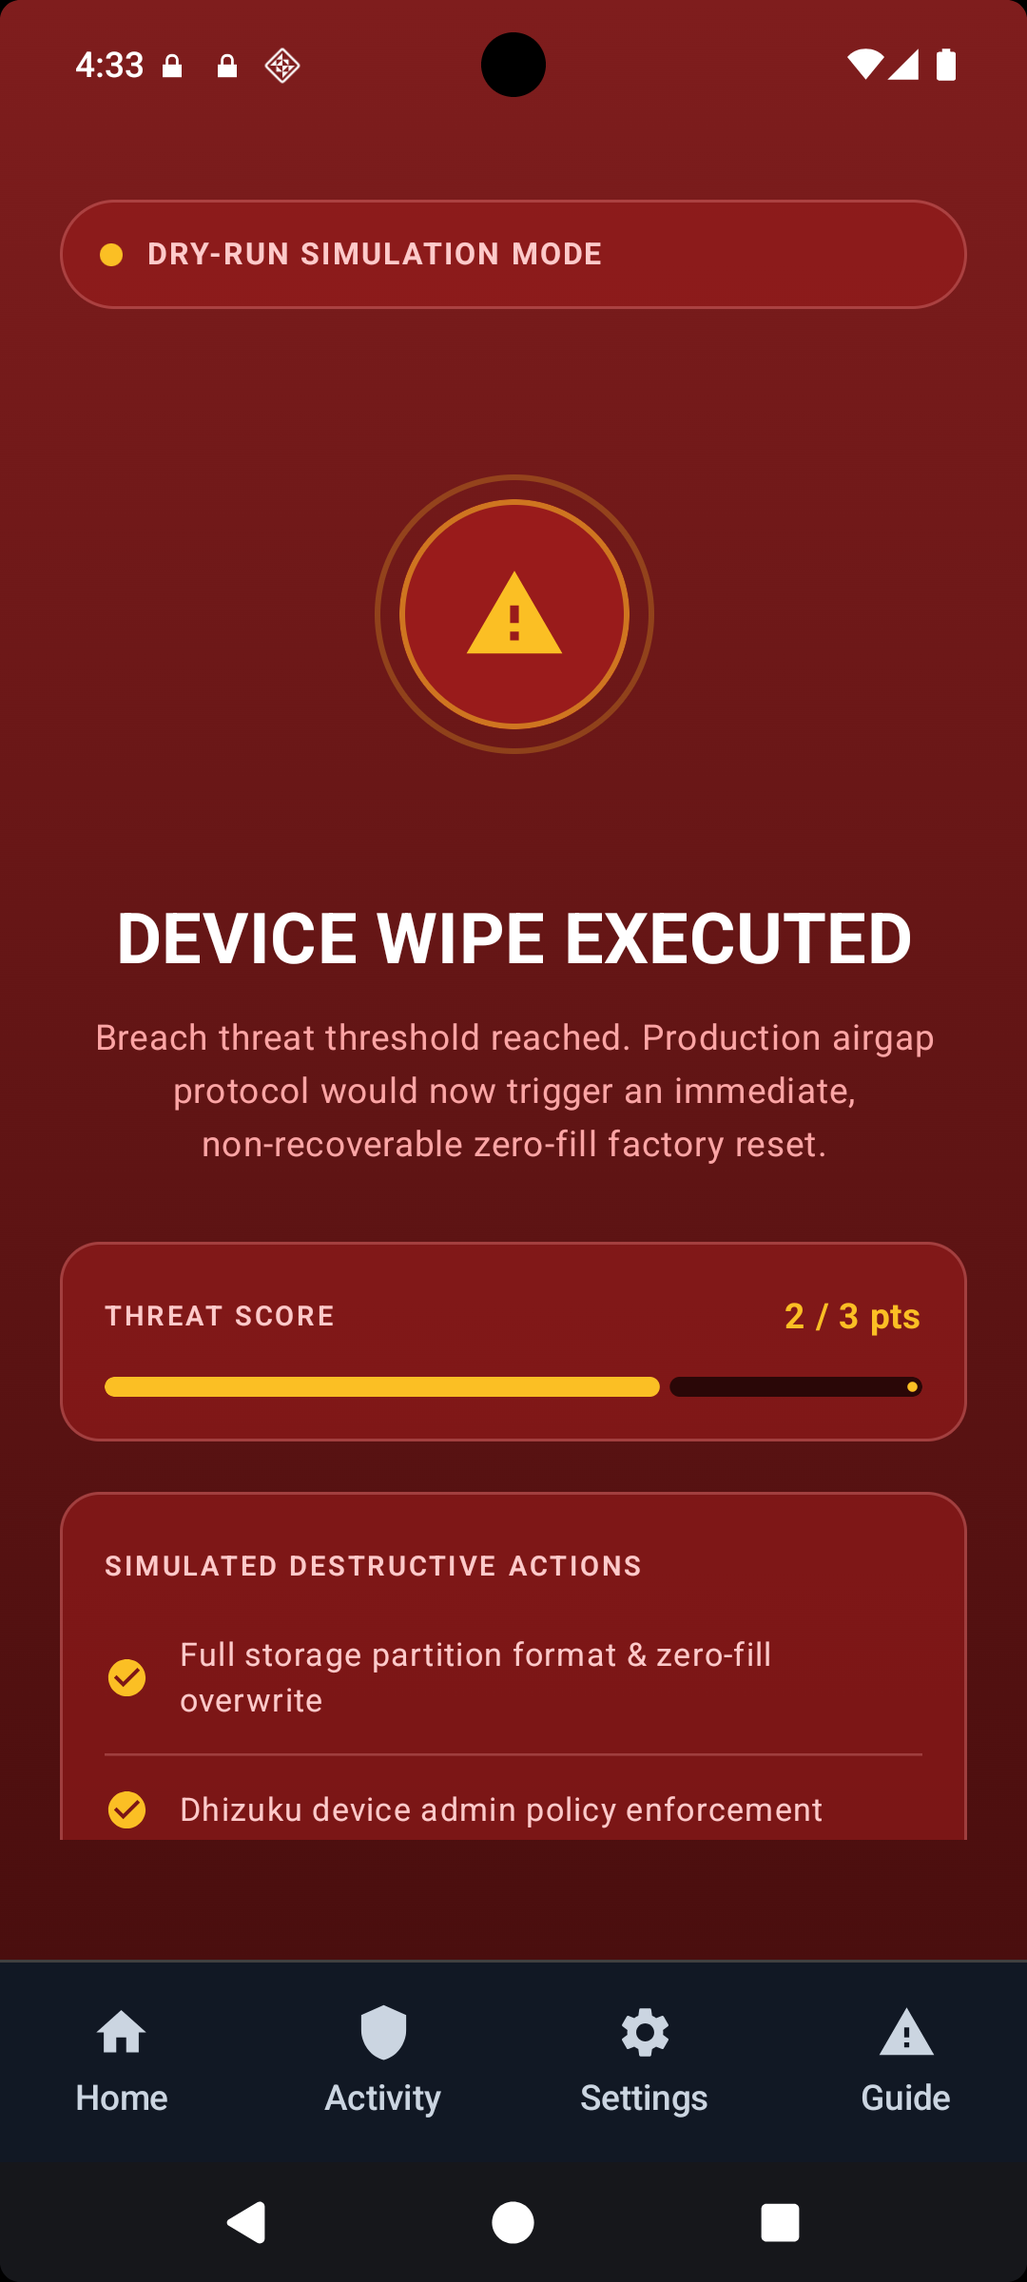
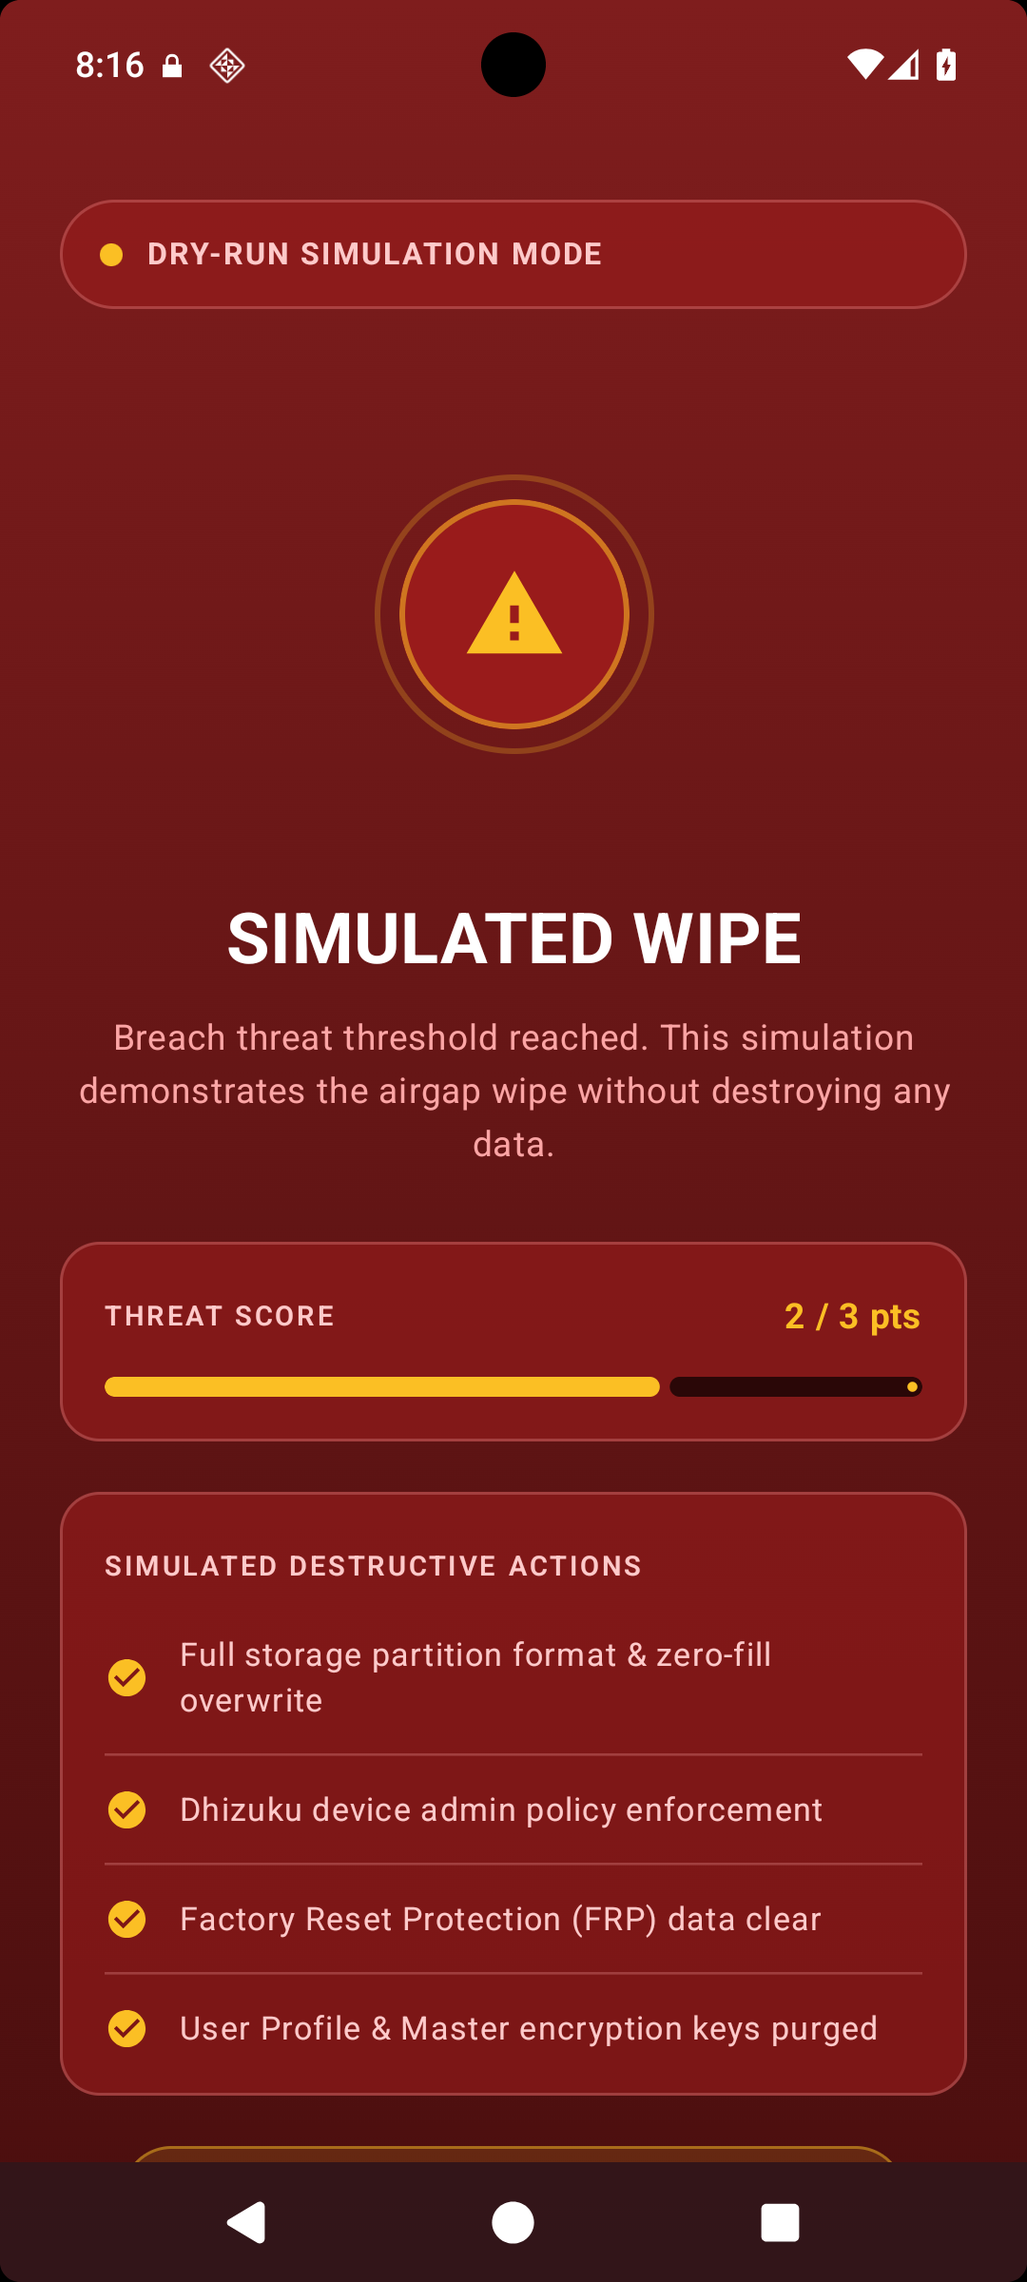
Make wipe screen reflect actual mode instead of always saying "simulated"
- Wipe screen now shows "SIMULATED WIPE" in dry-run mode and "FACTORY RESET PENDING" in live mode
- Badge text, description, and PIN dialog all update to match the active mode
- Bottom navigation bar is hidden during wipe so user can't navigate away
- Updated tests to cover both dry-run and live-mode screen text
- Regenerated wipe screenshots (light + dark) and mockups
- Updated user-guide to match new screen text

Changed region(s): [[0.0, 0.7812, 1.0, 1.0], [0.0917, 0.375, 0.9167, 0.5312], [0.2139, 0.0, 0.2444, 0.0312]]

diff --git a/app/src/test/java/com/airgate/ui/screens/WipeGateFlowTest.kt b/app/src/test/java/com/airgate/ui/screens/WipeGateFlowTest.kt
@@ -24,11 +24,13 @@ import androidx.compose.ui.test.assertIsDisplayed
 import androidx.compose.ui.test.junit4.createComposeRule
 import androidx.compose.ui.test.onAllNodesWithText
 import androidx.compose.ui.test.onNodeWithText
+import androidx.compose.ui.test.performScrollTo
 import androidx.lifecycle.compose.collectAsStateWithLifecycle
 import androidx.test.core.app.ApplicationProvider
 import androidx.test.ext.junit.runners.AndroidJUnit4
 import com.airgate.WipeGate
 import com.airgate.data.repository.SecurityStateRepository
+import com.airgate.domain.model.AppConfig
 import com.airgate.domain.model.SecurityState
 import com.airgate.testutil.crypto.AndroidKeyStoreRule
 import org.junit.Rule
@@ -70,22 +72,22 @@ class WipeGateFlowTest {
         }
 
         composeRule.onNodeWithText("NORMAL CONTENT").assertIsDisplayed()
-        composeRule.onNodeWithText("DEVICE WIPE EXECUTED").assertDoesNotExist()
+        composeRule.onNodeWithText("FACTORY RESET PENDING").assertDoesNotExist()
 
-        // A background component (the watchdog) flips the state while the UI is
-        // already in the foreground — no lifecycle event fires.
+        repository.saveConfig(AppConfig(dryRunMode = false))
         repository.setSecurityState(SecurityState.WIPING)
 
         composeRule.waitUntil(timeoutMillis = 15_000) {
-            composeRule.onAllNodesWithText("DEVICE WIPE EXECUTED").fetchSemanticsNodes().isNotEmpty()
+            composeRule.onAllNodesWithText("FACTORY RESET PENDING").fetchSemanticsNodes().isNotEmpty()
         }
-        composeRule.onNodeWithText("DEVICE WIPE EXECUTED").assertIsDisplayed()
+        composeRule.onNodeWithText("FACTORY RESET PENDING").assertIsDisplayed()
         composeRule.onNodeWithText("NORMAL CONTENT").assertDoesNotExist()
     }
 
     @Test
     fun normalContent_returnsWhenTheFlowLeavesWiping() {
         val repository = freshRepository()
+        repository.saveConfig(AppConfig(dryRunMode = false))
         repository.setSecurityState(SecurityState.WIPING)
 
         composeRule.setContent {
@@ -99,20 +101,40 @@ class WipeGateFlowTest {
             }
         }
 
-        composeRule.onNodeWithText("DEVICE WIPE EXECUTED").assertIsDisplayed()
+        composeRule.onNodeWithText("FACTORY RESET PENDING").assertIsDisplayed()
 
-        // The owner's PIN-gated reset returns the state to compliant.
         repository.setSecurityState(SecurityState.ARMED_COMPLIANT)
 
         composeRule.waitUntil(timeoutMillis = 15_000) {
             composeRule.onAllNodesWithText("NORMAL CONTENT").fetchSemanticsNodes().isNotEmpty()
         }
         composeRule.onNodeWithText("NORMAL CONTENT").assertIsDisplayed()
-        composeRule.onNodeWithText("DEVICE WIPE EXECUTED").assertDoesNotExist()
+        composeRule.onNodeWithText("FACTORY RESET PENDING").assertDoesNotExist()
     }
 
     @Test
     fun wipeScreen_isShownImmediatelyWhenTheFlowStartsInWiping() {
+        val repository = freshRepository()
+        repository.saveConfig(AppConfig(dryRunMode = false))
+        repository.setSecurityState(SecurityState.WIPING)
+
+        composeRule.setContent {
+            val securityState by repository.securityStateFlow.collectAsStateWithLifecycle()
+            WipeGate(
+                securityState = securityState,
+                repository = repository,
+                onResetStreakRequested = {}
+            ) {
+                Text("NORMAL CONTENT")
+            }
+        }
+
+        composeRule.onNodeWithText("FACTORY RESET PENDING").assertIsDisplayed()
+        composeRule.onNodeWithText("NORMAL CONTENT").assertDoesNotExist()
+    }
+
+    @Test
+    fun wipeScreen_showsDryRunTextInDryRunMode() {
         val repository = freshRepository()
         repository.setSecurityState(SecurityState.WIPING)
 
@@ -127,10 +149,33 @@ class WipeGateFlowTest {
             }
         }
 
-        // A fresh collector replays the current state, so an app that restarts
-        // mid-wipe lands directly on the emergency screen.
-        composeRule.onNodeWithText("DEVICE WIPE EXECUTED").assertIsDisplayed()
-        composeRule.onNodeWithText("NORMAL CONTENT").assertDoesNotExist()
+        composeRule.onNodeWithText("SIMULATED WIPE").assertIsDisplayed()
+        composeRule.onNodeWithText("SIMULATION — NO DATA WILL BE DESTROYED").performScrollTo().assertIsDisplayed()
+        composeRule.onNodeWithText("FACTORY RESET PENDING").assertDoesNotExist()
+        composeRule.onNodeWithText("LIVE WIPE — THIS DEVICE WILL BE FACTORY-RESET").assertDoesNotExist()
+    }
+
+    @Test
+    fun wipeScreen_showsLiveTextInLiveMode() {
+        val repository = freshRepository()
+        repository.saveConfig(AppConfig(dryRunMode = false))
+        repository.setSecurityState(SecurityState.WIPING)
+
+        composeRule.setContent {
+            val securityState by repository.securityStateFlow.collectAsStateWithLifecycle()
+            WipeGate(
+                securityState = securityState,
+                repository = repository,
+                onResetStreakRequested = {}
+            ) {
+                Text("NORMAL CONTENT")
+            }
+        }
+
+        composeRule.onNodeWithText("FACTORY RESET PENDING").assertIsDisplayed()
+        composeRule.onNodeWithText("LIVE WIPE — THIS DEVICE WILL BE FACTORY-RESET").performScrollTo().assertIsDisplayed()
+        composeRule.onNodeWithText("SIMULATED WIPE").assertDoesNotExist()
+        composeRule.onNodeWithText("SIMULATION — NO DATA WILL BE DESTROYED").assertDoesNotExist()
     }
 
     private fun freshRepository(): SecurityStateRepository {

diff --git a/app/src/androidTest/java/com/airgate/data/repository/WipeGateInstrumentedTest.kt b/app/src/androidTest/java/com/airgate/data/repository/WipeGateInstrumentedTest.kt
@@ -23,10 +23,12 @@ import androidx.compose.ui.test.assertIsDisplayed
 import androidx.compose.ui.test.junit4.createComposeRule
 import androidx.compose.ui.test.onAllNodesWithText
 import androidx.compose.ui.test.onNodeWithText
+import androidx.compose.ui.test.performScrollTo
 import androidx.lifecycle.compose.collectAsStateWithLifecycle
 import androidx.test.ext.junit.runners.AndroidJUnit4
 import androidx.test.platform.app.InstrumentationRegistry
 import com.airgate.WipeGate
+import com.airgate.domain.model.AppConfig
 import com.airgate.domain.model.SecurityState
 import org.junit.Rule
 import org.junit.Test
@@ -63,19 +65,48 @@ class WipeGateInstrumentedTest {
         }
 
         composeRule.onNodeWithText("NORMAL CONTENT").assertIsDisplayed()
-        composeRule.onNodeWithText("DEVICE WIPE EXECUTED").assertDoesNotExist()
+        composeRule.onNodeWithText("FACTORY RESET PENDING").assertDoesNotExist()
 
+        repository.saveConfig(AppConfig(dryRunMode = false))
         repository.setSecurityState(SecurityState.WIPING)
 
         composeRule.waitUntil(timeoutMillis = 15_000) {
-            composeRule.onAllNodesWithText("DEVICE WIPE EXECUTED").fetchSemanticsNodes().isNotEmpty()
+            composeRule.onAllNodesWithText("FACTORY RESET PENDING").fetchSemanticsNodes().isNotEmpty()
         }
-        composeRule.onNodeWithText("DEVICE WIPE EXECUTED").assertIsDisplayed()
+        composeRule.onNodeWithText("FACTORY RESET PENDING").assertIsDisplayed()
         composeRule.onNodeWithText("NORMAL CONTENT").assertDoesNotExist()
     }
 
     @Test
     fun normalContent_returnsWhenFlowLeavesWiping_onDevice() {
+        val repository = freshRepository()
+        repository.saveConfig(AppConfig(dryRunMode = false))
+        repository.setSecurityState(SecurityState.WIPING)
+
+        composeRule.setContent {
+            val securityState by repository.securityStateFlow.collectAsStateWithLifecycle()
+            WipeGate(
+                securityState = securityState,
+                repository = repository,
+                onResetStreakRequested = {}
+            ) {
+                Text("NORMAL CONTENT")
+            }
+        }
+
+        composeRule.onNodeWithText("FACTORY RESET PENDING").assertIsDisplayed()
+
+        repository.setSecurityState(SecurityState.ARMED_COMPLIANT)
+
+        composeRule.waitUntil(timeoutMillis = 15_000) {
+            composeRule.onAllNodesWithText("NORMAL CONTENT").fetchSemanticsNodes().isNotEmpty()
+        }
+        composeRule.onNodeWithText("NORMAL CONTENT").assertIsDisplayed()
+        composeRule.onNodeWithText("FACTORY RESET PENDING").assertDoesNotExist()
+    }
+
+    @Test
+    fun wipeScreen_showsDryRunTextInDryRunMode_onDevice() {
         val repository = freshRepository()
         repository.setSecurityState(SecurityState.WIPING)
 
@@ -90,15 +121,33 @@ class WipeGateInstrumentedTest {
             }
         }
 
-        composeRule.onNodeWithText("DEVICE WIPE EXECUTED").assertIsDisplayed()
+        composeRule.onNodeWithText("SIMULATED WIPE").assertIsDisplayed()
+        composeRule.onNodeWithText("SIMULATION — NO DATA WILL BE DESTROYED").performScrollTo().assertIsDisplayed()
+        composeRule.onNodeWithText("FACTORY RESET PENDING").assertDoesNotExist()
+        composeRule.onNodeWithText("LIVE WIPE — THIS DEVICE WILL BE FACTORY-RESET").assertDoesNotExist()
+    }
 
-        repository.setSecurityState(SecurityState.ARMED_COMPLIANT)
+    @Test
+    fun wipeScreen_showsLiveTextInLiveMode_onDevice() {
+        val repository = freshRepository()
+        repository.saveConfig(AppConfig(dryRunMode = false))
+        repository.setSecurityState(SecurityState.WIPING)
 
-        composeRule.waitUntil(timeoutMillis = 15_000) {
-            composeRule.onAllNodesWithText("NORMAL CONTENT").fetchSemanticsNodes().isNotEmpty()
+        composeRule.setContent {
+            val securityState by repository.securityStateFlow.collectAsStateWithLifecycle()
+            WipeGate(
+                securityState = securityState,
+                repository = repository,
+                onResetStreakRequested = {}
+            ) {
+                Text("NORMAL CONTENT")
+            }
         }
-        composeRule.onNodeWithText("NORMAL CONTENT").assertIsDisplayed()
-        composeRule.onNodeWithText("DEVICE WIPE EXECUTED").assertDoesNotExist()
+
+        composeRule.onNodeWithText("FACTORY RESET PENDING").assertIsDisplayed()
+        composeRule.onNodeWithText("LIVE WIPE — THIS DEVICE WILL BE FACTORY-RESET").performScrollTo().assertIsDisplayed()
+        composeRule.onNodeWithText("SIMULATED WIPE").assertDoesNotExist()
+        composeRule.onNodeWithText("SIMULATION — NO DATA WILL BE DESTROYED").assertDoesNotExist()
     }
 
     private fun freshRepository(): SecurityStateRepository {

diff --git a/app/src/main/java/com/airgate/ui/screens/SimulatedWipeScreen.kt b/app/src/main/java/com/airgate/ui/screens/SimulatedWipeScreen.kt
@@ -80,7 +80,7 @@ fun SimulatedWipeScreen(
             Spacer(modifier = Modifier.height(24.dp))
 
             Text(
-                text = "DEVICE WIPE EXECUTED",
+                text = if (config.dryRunMode) "SIMULATED WIPE" else "FACTORY RESET PENDING",
                 color = WipePalette.headline,
                 fontSize = 28.sp,
                 fontWeight = FontWeight.Bold,
@@ -90,7 +90,11 @@ fun SimulatedWipeScreen(
             Spacer(modifier = Modifier.height(12.dp))
 
             Text(
-                text = "Breach threat threshold reached. Production airgap protocol would now trigger an immediate, non-recoverable zero-fill factory reset.",
+                text = if (config.dryRunMode) {
+                    "Breach threat threshold reached. This simulation demonstrates the airgap wipe without destroying any data."
+                } else {
+                    "Breach threat threshold reached. A non-recoverable zero-fill factory reset will begin immediately."
+                },
                 color = WipePalette.bodyText,
                 fontSize = 14.sp,
                 lineHeight = 21.sp,
@@ -109,8 +113,19 @@ fun SimulatedWipeScreen(
 
             Surface(
                 shape = RoundedCornerShape(50),
-                color = WipePalette.beacon.copy(alpha = 0.14f),
-                border = BorderStroke(1.dp, WipePalette.beacon.copy(alpha = 0.45f))
+                color = if (config.dryRunMode) {
+                    WipePalette.beacon.copy(alpha = 0.14f)
+                } else {
+                    MaterialTheme.colorScheme.error.copy(alpha = 0.14f)
+                },
+                border = BorderStroke(
+                    1.dp,
+                    if (config.dryRunMode) {
+                        WipePalette.beacon.copy(alpha = 0.45f)
+                    } else {
+                        MaterialTheme.colorScheme.error.copy(alpha = 0.45f)
+                    }
+                )
             ) {
                 Row(
                     modifier = Modifier.padding(horizontal = 16.dp, vertical = 8.dp),
@@ -120,15 +135,20 @@ fun SimulatedWipeScreen(
                         modifier = Modifier
                             .size(8.dp)
                             .clip(CircleShape)
-                            .background(WipePalette.beacon)
+                            .background(
+                                if (config.dryRunMode) WipePalette.beacon
+                                else MaterialTheme.colorScheme.error
+                            )
                     )
                     Spacer(modifier = Modifier.width(10.dp))
                     Text(
-                        text = "SIMULATED — NO REAL DATA DESTROYED",
+                        text = if (config.dryRunMode) "SIMULATION — NO DATA WILL BE DESTROYED"
+                        else "LIVE WIPE — THIS DEVICE WILL BE FACTORY-RESET",
                         fontWeight = FontWeight.Bold,
                         fontSize = 12.sp,
                         letterSpacing = 0.4.sp,
-                        color = WipePalette.beacon
+                        color = if (config.dryRunMode) WipePalette.beacon
+                        else MaterialTheme.colorScheme.error
                     )
                 }
             }
@@ -162,7 +182,11 @@ fun SimulatedWipeScreen(
             Spacer(modifier = Modifier.height(12.dp))
 
             Text(
-                text = "Recovering from a simulated wipe requires your Armed PIN",
+                text = if (config.dryRunMode) {
+                    "Recovering from a simulated wipe requires your Armed PIN"
+                } else {
+                    "This device will be wiped. Recovery is not possible in live mode."
+                },
                 color = WipePalette.detailText.copy(alpha = 0.75f),
                 fontSize = 12.sp,
                 fontWeight = FontWeight.Medium
@@ -172,7 +196,11 @@ fun SimulatedWipeScreen(
                 PinVerifyDialog(
                     repository = repository,
                     title = "Reset Threat Score",
-                    description = "Recovering from a simulated wipe requires your Armed PIN.",
+                    description = if (config.dryRunMode) {
+                        "Recovering from a simulated wipe requires your Armed PIN."
+                    } else {
+                        "This device will be wiped. Recovery is not possible in live mode."
+                    },
                     confirmLabel = "Reset",
                     onDismiss = { showPinDialog = false },
                     onVerified = {

diff --git a/app/src/main/java/com/airgate/MainActivity.kt b/app/src/main/java/com/airgate/MainActivity.kt
@@ -125,15 +125,16 @@ class MainActivity : ComponentActivity() {
                         containerColor = MaterialTheme.colorScheme.background,
                         contentWindowInsets = WindowInsets(0, 0, 0, 0),
                         bottomBar = {
-                            QuickActionsBottomBar(
-                                currentScreen = currentScreen.value,
-                                enabled = currentScreen.value != Screen.AUTH_PIN &&
-                                    securityState != SecurityState.WIPING,
-                                onSelect = { screen ->
-                                    if (screen == Screen.VIOLATION_GUIDE) guideInitialTab = 0
-                                    currentScreen.value = screen
-                                }
-                            )
+                            if (securityState != SecurityState.WIPING) {
+                                QuickActionsBottomBar(
+                                    currentScreen = currentScreen.value,
+                                    enabled = currentScreen.value != Screen.AUTH_PIN,
+                                    onSelect = { screen ->
+                                        if (screen == Screen.VIOLATION_GUIDE) guideInitialTab = 0
+                                        currentScreen.value = screen
+                                    }
+                                )
+                            }
                         }
                     ) { innerPadding ->
                         Box(modifier = Modifier.fillMaxSize().padding(innerPadding)) {

diff --git a/app/src/androidTest/java/com/airgate/ui/ScreenshotCaptureTest.kt b/app/src/androidTest/java/com/airgate/ui/ScreenshotCaptureTest.kt
@@ -155,8 +155,9 @@ class ScreenshotCaptureTest {
         waitForText("Security Settings")
         composeRule.onNodeWithContentDescription("Back").performClick()
         waitForText("THREAT SCORE")
+        repository.saveConfig(com.airgate.domain.model.AppConfig(dryRunMode = false))
         repository.setSecurityState(SecurityState.WIPING)
-        waitForText("DEVICE WIPE EXECUTED")
+        waitForText("FACTORY RESET PENDING")
         composeRule.waitForIdle()
         park("wipe")
 

diff --git a/user-guide.md b/user-guide.md
@@ -166,7 +166,7 @@ This is the last line of defense, and it is worth understanding exactly how it p
 
 **The alarm.** With no grace window configured, the app shows a full-screen alarm ("Security Breach" / "Wipe Imminent") with sound and vibration. The back button is blocked; the only way out is **Disarm** with your Armed PIN. Disarming cancels a pending grace-window wipe and dismisses the alarm, but deliberately keeps the accumulated streak — PIN-gating a dismissal must not zero the score.
 
-**The wipe screen.** If the wipe executes, the app shows the emergency screen. In **Dry-Run mode** (the default) it is clearly marked **"SIMULATED — NO REAL DATA DESTROYED"**: a rehearsal of the wipe, no data lost. Recovering from a simulated wipe requires your Armed PIN, which resets the threat score and returns you to the dashboard. With **Dry-Run off**, the same screen precedes a **real, non-recoverable** factory reset. There is no undo — that is the point: an adversary who coerces you into unlocking gets a brick, not a wallet.
+**The wipe screen.** If the wipe executes, the app shows the emergency screen. In **Dry-Run mode** (the default) it is clearly marked **"SIMULATION — NO DATA WILL BE DESTROYED"**: a rehearsal of the wipe, no data lost. Recovering from a simulated wipe requires your Armed PIN, which resets the threat score and returns you to the dashboard. With **Dry-Run off**, the same screen shows **"LIVE WIPE — THIS DEVICE WILL BE FACTORY-RESET"** and precedes a **real, non-recoverable** factory reset. There is no undo — that is the point: an adversary who coerces you into unlocking gets a brick, not a wallet.
 
 When you'd experience this: during your own testing (via the simulation harness), and — if you go live with dry-run off — during a genuine, irreversible breach. Make sure your wallet seed is backed up on paper *before* you ever turn dry-run off; the paper seed is the only thing that survives the wipe.
 
